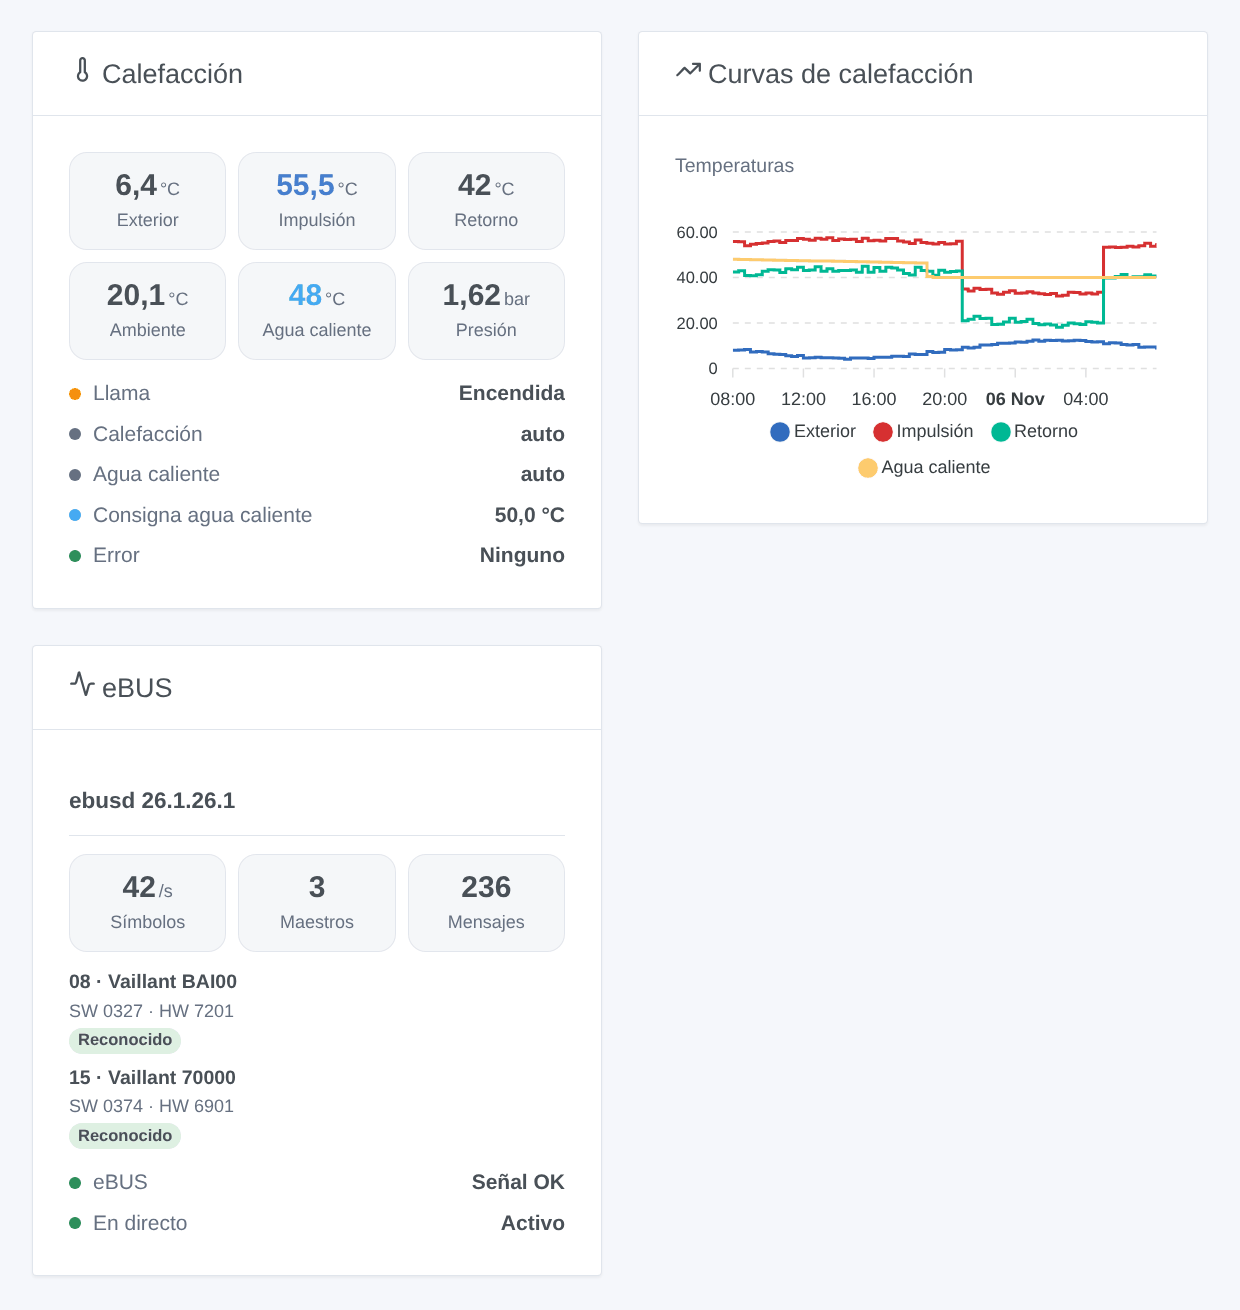
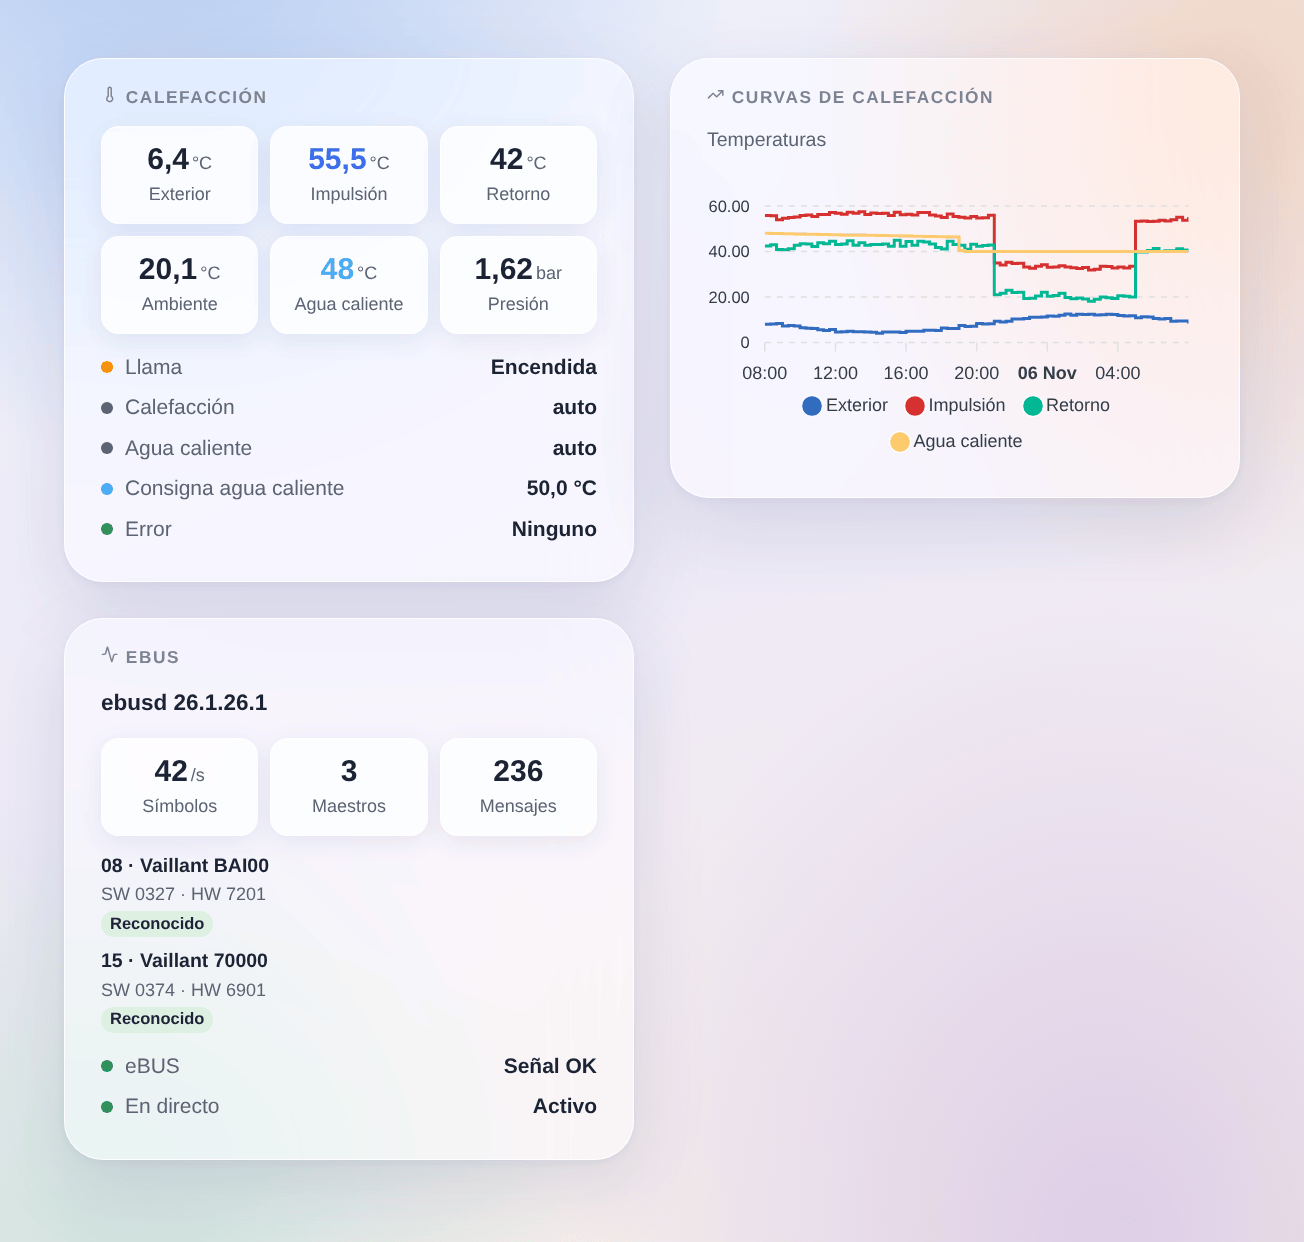
docs: widget illustrations in the Gladys 5 look (Horizon glass dashboard)
The illustrations used the Gladys v4 card look. render.sh now takes the styles of the current Gladys front, adds the Horizon dashboard theme (glass cards, uppercase title, default scene) and quantizes with libimagequant so the small colored dots survive the gradient.

diff --git a/docs/illustrations/index.html b/docs/illustrations/index.html
@@ -5,10 +5,25 @@
     <link rel="stylesheet" href="vendor/theme/package/dashboard.css" />
     <link rel="stylesheet" href="widget.css" />
     <link rel="stylesheet" href="dark-mode.css" />
+    <link rel="stylesheet" href="horizon.css" />
     <style>
       body {
-        background: #f5f7fb;
-        padding: 24px;
+        background: #fff;
+        margin: 0;
+        padding: 8px;
+      }
+      /* the page header of the theme shares the class name of the widget
+         header slot (a CSS module class in Gladys): keep it off the widget */
+      .card .header {
+        padding: 0;
+        background: none;
+        border-bottom: 0;
+      }
+      /* the dashboard scene, a margin around the cards for their shadow */
+      #stage {
+        display: inline-block;
+        overflow: hidden;
+        padding: 40px 44px 56px;
       }
       #row {
         display: flex;
@@ -30,7 +45,7 @@
     <script src="data.js"></script>
   </head>
   <body>
-    <div id="row"></div>
+    <div id="stage" class="glass-theme glassScene"><div id="row"></div></div>
     <script>
       if (new URLSearchParams(location.search).get('theme') === 'dark') {
         document.documentElement.classList.add('dark-mode');
